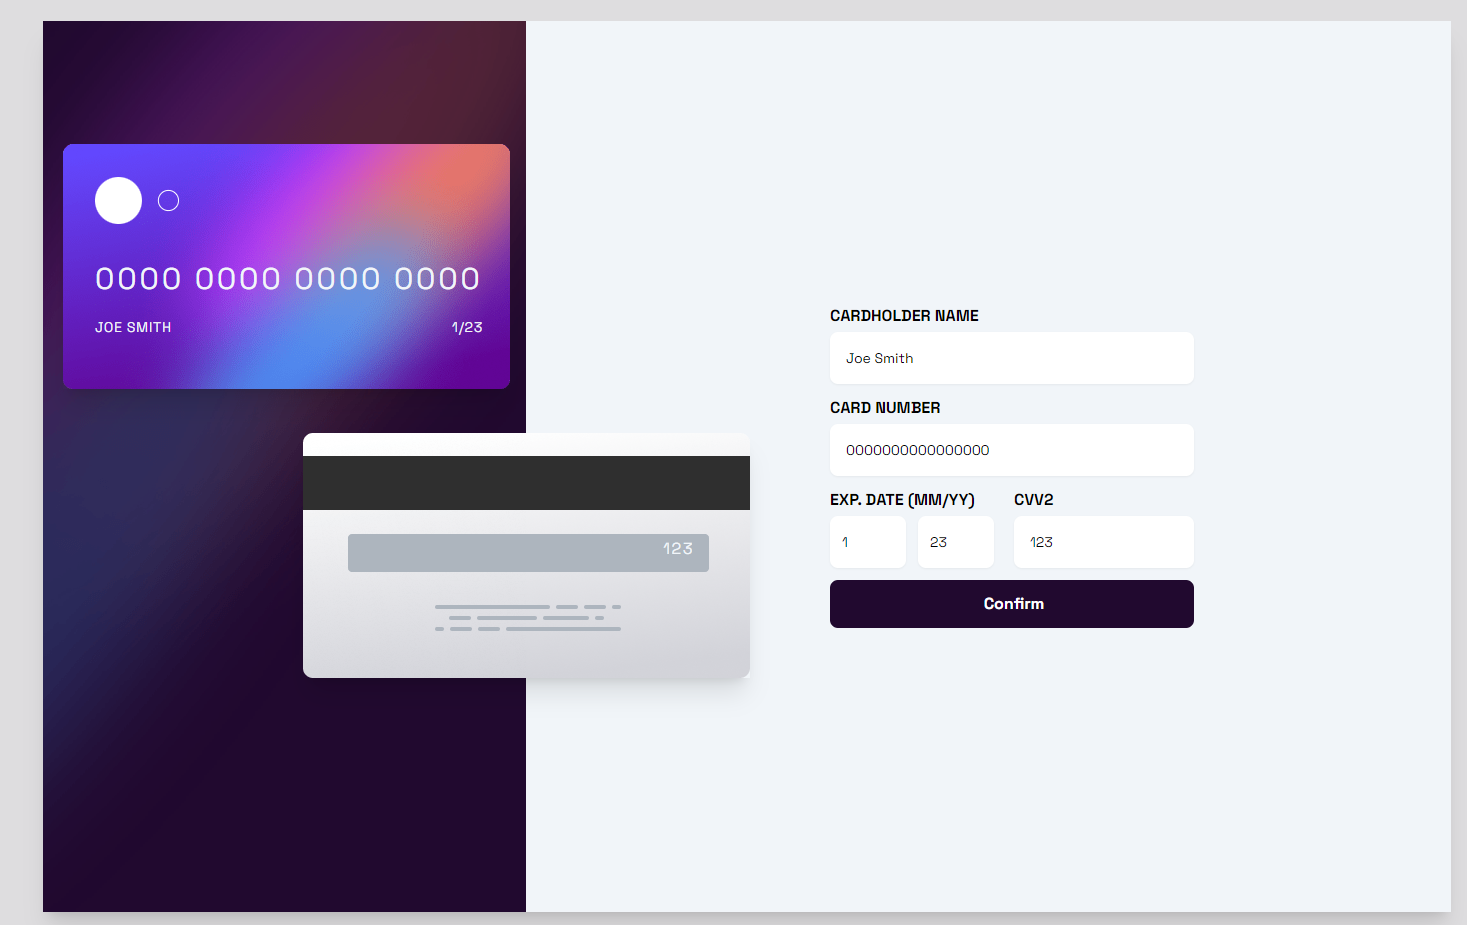
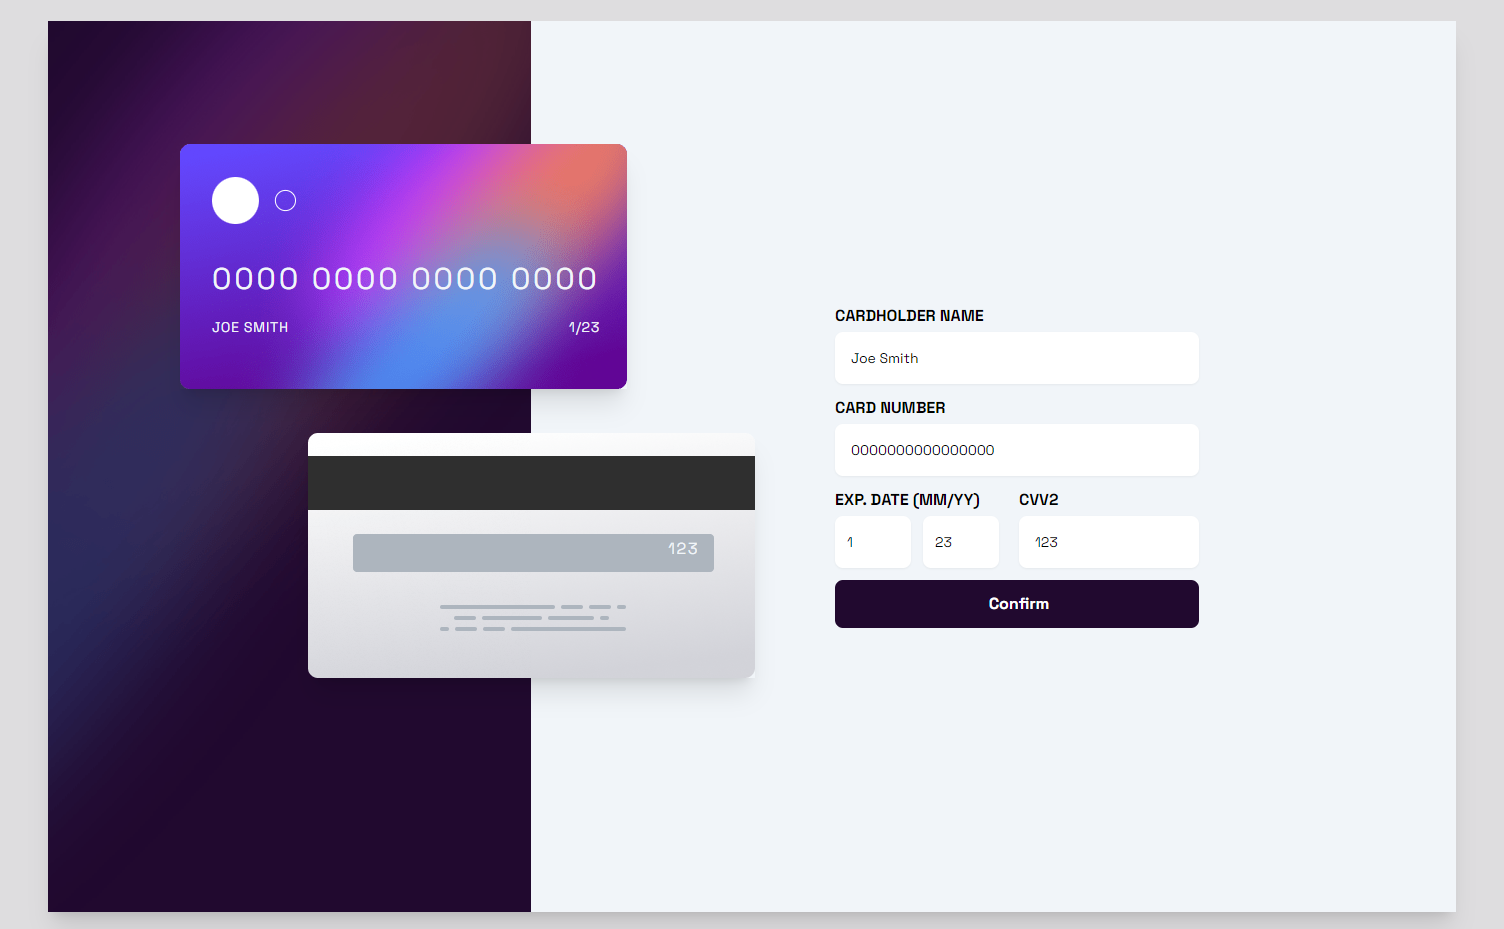
🩹 margin on xl view

diff --git a/src/component/FrontCard.svelte b/src/component/FrontCard.svelte
@@ -14,7 +14,7 @@
 	$: cardNumber = creditCardNumber(number, '#### #### #### ####');
 </script>
 
-<div class="w-fit rounded-xl  text-slate-100 ">
+<div class="w-fit rounded-xl xl:relative  lg:left-28 text-slate-100 ">
 	<div class="relative z-10 top-60 md:top-60 mx-8">
 		<div class="text-lg md:text-xl lg:text-3xl w-full text-center tracking-widest">
 			{cardNumber}
